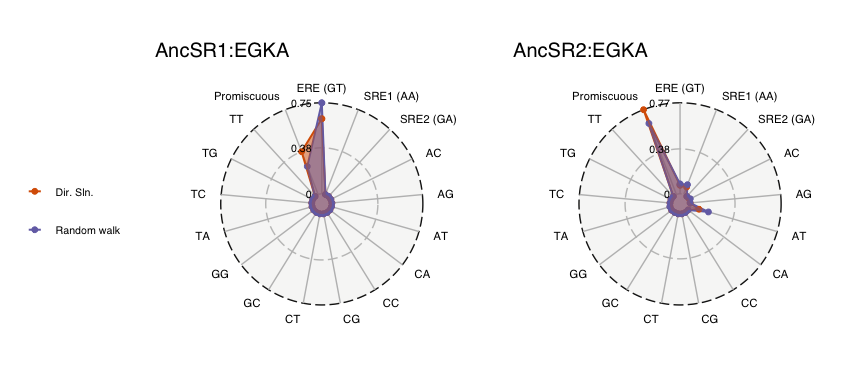
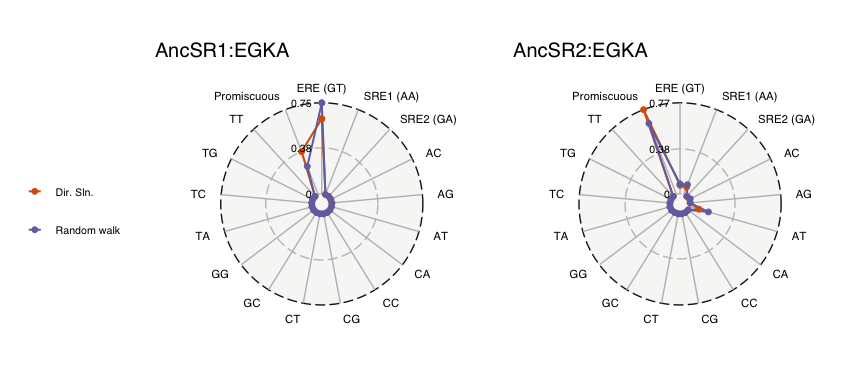
evolutionary simulations with complete dataset from model fitting

Changed region(s): [[0.3438, 0.3125, 0.4062, 0.5625], [0.75, 0.3438, 0.8125, 0.5625]]

diff --git a/notebooks/evolutionary_simulations/MutSel_complete_data.md b/notebooks/evolutionary_simulations/MutSel_complete_data.md
@@ -78,7 +78,10 @@ $$
 
 Although we are assuming no mutation bias and reversibility, we can weight the fixation probablities by a *mutation rate*. The mutation rate aims to capture an important aspect of the mutation process: the mapping from codon-to-amino acid, thus capturing the accessibility of genotype variants through the structure of the genetic code.
 
-Mutation rates (*ρ*<sub>*i**j*</sub>) can be defined in multiple ways, but we use two equivalent definitions: - All single-step amino acid mutations to functional genotypes given the genetic code are accessible, with probability equal to the *fraction of codons* from amino acid *i* that can access amino acid *j* via single nucleotide mutations (i.e., mutational propensity). - All single-step amino acid mutations to functional genotypes given the genetic code are accessible, with probability proportional to the *number of nucleotide changes* that can encode each amino acid change - accounting for all the possible synonymous backgrounds (i.e., codon bias).
+Mutation rates (*ρ*<sub>*i**j*</sub>) can be defined in multiple ways, but we use two equivalent definitions:
+
+-   All single-step amino acid mutations to functional genotypes given the genetic code are accessible, with probability equal to the *fraction of codons* from amino acid *i* that can access amino acid *j* via single nucleotide mutations (i.e., mutational propensity).
+-   All single-step amino acid mutations to functional genotypes given the genetic code are accessible, with probability proportional to the *number of nucleotide changes* that can encode each amino acid change - accounting for all the possible synonymous backgrounds (i.e., codon bias).
 
 A reasonable assumption in both cases is that a population fixed for a given amino acid genotype, may explore all synonymous codons; i.e., the population is *delocalized* at the nucleotide level but fixed at the amino acid level.
 
@@ -342,14 +345,18 @@ For the first question, we are interested in the PDFV that arises through random
 
 ``` r
 # Variational propensities
-var.prop_AncSR1_df <- get_PDFV_v2(type="network",Bg="AncSR1",model="Prop.Exp.")
-var.prop_AncSR2_df <- get_PDFV_v2(type="network",Bg="AncSR2",model="Prop.Exp.")
+var.prop_AncSR1_df <- get_PDFV_v2(type="network",Bg="AncSR1",model="Binding")
+var.prop_AncSR1_df2 <- get_PDFV_v2(type="network",Bg="AncSR1",model="Specific Binding",specific = TRUE) %>% filter(RE != "Promiscuous") %>% 
+                                    mutate(Norm_F_prob = Norm_F_prob /sum(Norm_F_prob))
+var.prop_AncSR2_df <- get_PDFV_v2(type="network",Bg="AncSR2",model="Binding")
+var.prop_AncSR2_df2 <- get_PDFV_v2(type="network",Bg="AncSR2",model="Specific Binding",specific = TRUE) %>% filter(RE != "Promiscuous") %>% 
+                                    mutate(Norm_F_prob = Norm_F_prob /sum(Norm_F_prob))
 
-# Plot proportional expectations for each DBD
-prop_sr1 <- circular_PDFV_v2(var.prop_AncSR1_df,title="AncSR1\nVariational propensity",legend=F)
-prop_sr2 <- circular_PDFV_v2(var.prop_AncSR2_df,title="AncSR2\nVariational propensity",legend=F)
+# Plot variational propensities for each DBD
+a <- circular_PDFV_v2(list(var.prop_AncSR1_df,var.prop_AncSR1_df2),cols = c("#1D1D35","#00ACBF"),fill=F,title = "AncSR1\nVariational propensity")
+b <- circular_PDFV_v2(list(var.prop_AncSR2_df,var.prop_AncSR2_df2),cols = c("#1D1D35","#00ACBF"),fill=F,legend = F,title = "AncSR2\nVariational propensity")
 
-prop_sr1 + prop_sr2
+a + b
 ```
 
 ![](MutSel_complete_data_files/figure-markdown_github/variational_prop-1.png)
@@ -396,7 +403,7 @@ These figures show the PDFV that arises from random mutation in each DBD backgro
 
 -   The AncSR1 background only produces 10/16 phenotypes upon random mutation, while AncSR2 can produce all 16 phenotypes (Note that this is using AncSR2/SRE1 wt as the functional reference).
 -   The PDFV for each DBD background are aligned with the wild-type phenotypes. The most frequently produced phenotype is the wild type-phenotype of each ancestral protein, ERE and SRE1, respectively.
--   The shape of the PDFV changed along the phylogenetic trajectory. The variational properties of AncSR1 and AncSR2 are significantly different (Goodness of fit P-values = 0).
+-   The shape of the PDFV changed along the phylogenetic trajectory. The variational properties of AncSR1 and AncSR2 are significantly different (Goodness of fit *P-values* = 0).
 
 Now let's explore the second question. Since we have already computed the stationary distributions of genotypes for each `P` matrix, we can use these distributions to compute the PDFV at equilibrium.
 
@@ -407,13 +414,13 @@ Now let's explore the second question. Since we have already computed the statio
 stat_pdfv_drift_sr1 <- get_PDFV_v2(P_drift_sr1_ntwrk_statdist,type="simulated mc",Bg="AncSR1",model="Drift")
 stat_pdfv_dir_sr1 <- get_PDFV_v2(P_dir_sr1_ntwrk_statdist,type="simulated mc",Bg="AncSR1",model="Dir. sln.")
 
-p1 <- circular_PDFV_v2(list(var.prop_AncSR1_df,stat_pdfv_drift_sr1,stat_pdfv_dir_sr1),cols = c(cols[2:3],"gray60"),title = "AncSR1: Stationary PDFVs")
+p1 <- circular_PDFV_v2(list(var.prop_AncSR1_df,stat_pdfv_drift_sr1,stat_pdfv_dir_sr1),cols = c(cols[2:3],"gray60"),title = "AncSR1: Stationary PDFVs",fill = F)
 
 # AncSR2
 stat_pdfv_drift_sr2 <- get_PDFV_v2(P_drift_sr2_ntwrk_statdist,type="simulated mc",Bg="AncSR2",model="Drift")
 stat_pdfv_dir_sr2 <- get_PDFV_v2(P_dir_sr2_ntwrk_statdist,type="simulated mc",Bg="AncSR2",model="Dir. sln.")
 
-p2 <- circular_PDFV_v2(list(var.prop_AncSR2_df,stat_pdfv_drift_sr2,stat_pdfv_dir_sr2),cols = c(cols[2:3],"gray60"),title = "AncSR2: Stationary PDFVs",legend = F)
+p2 <- circular_PDFV_v2(list(var.prop_AncSR2_df,stat_pdfv_drift_sr2,stat_pdfv_dir_sr2),cols = c(cols[2:3],"gray60"),title = "AncSR2: Stationary PDFVs",legend = F,fill = F)
 
 p1+p2
 ```
@@ -512,8 +519,8 @@ pdfv_Drift_ref_genotype_sr2 <- get_PDFV_v2(mc_Drift_ref_genotype_sr2,Bg = "AncSR
 pdfv_DirSln_ref_genotype_sr2 <- get_PDFV_v2(mc_DirSln_ref_genotype_sr2,Bg = "AncSR2",model = "Dir. Sln.",specific = TRUE,type="simulated mc")
 
 # plots inclusing promiscuous as extra phenotype
-p1 <- circular_PDFV_v2(list(pdfv_Drift_ref_genotype_sr1,pdfv_DirSln_ref_genotype_sr1),cols = cols[2:3],title = "AncSR1:EGKA")
-p2 <- circular_PDFV_v2(list(pdfv_Drift_ref_genotype_sr2,pdfv_DirSln_ref_genotype_sr2),cols = cols[2:3],title = "AncSR2:EGKA",legend = F)
+p1 <- circular_PDFV_v2(list(pdfv_Drift_ref_genotype_sr1,pdfv_DirSln_ref_genotype_sr1),cols = cols[2:3],title = "AncSR1:EGKA",fill = F)
+p2 <- circular_PDFV_v2(list(pdfv_Drift_ref_genotype_sr2,pdfv_DirSln_ref_genotype_sr2),cols = cols[2:3],title = "AncSR2:EGKA",legend = F,fill = F)
 p1 + p2
 ```
 
@@ -527,8 +534,8 @@ pdfv_DirSln_ref_genotype_sr1_b <- pdfv_DirSln_ref_genotype_sr1 %>% filter(RE != 
 pdfv_Drift_ref_genotype_sr2_b <- pdfv_Drift_ref_genotype_sr2 %>% filter(RE != "Promiscuous") %>% mutate(Norm_F_prob = Norm_F_prob /sum(Norm_F_prob))
 pdfv_DirSln_ref_genotype_sr2_b <- pdfv_DirSln_ref_genotype_sr2 %>% filter(RE != "Promiscuous") %>% mutate(Norm_F_prob = Norm_F_prob /sum(Norm_F_prob))
 
-p3 <- circular_PDFV_v2(list(pdfv_Drift_ref_genotype_sr1_b,pdfv_DirSln_ref_genotype_sr1_b),cols = cols[2:3],title = "AncSR1:EGKA")
-p4 <- circular_PDFV_v2(list(pdfv_Drift_ref_genotype_sr2_b,pdfv_DirSln_ref_genotype_sr2_b),cols = cols[2:3],title = "AncSR2:EGKA",legend = F)
+p3 <- circular_PDFV_v2(list(pdfv_Drift_ref_genotype_sr1_b,pdfv_DirSln_ref_genotype_sr1_b),cols = cols[2:3],title = "AncSR1:EGKA",fill = F)
+p4 <- circular_PDFV_v2(list(pdfv_Drift_ref_genotype_sr2_b,pdfv_DirSln_ref_genotype_sr2_b),cols = cols[2:3],title = "AncSR2:EGKA",legend = F,fill = F)
 p3 + p4
 ```
 
